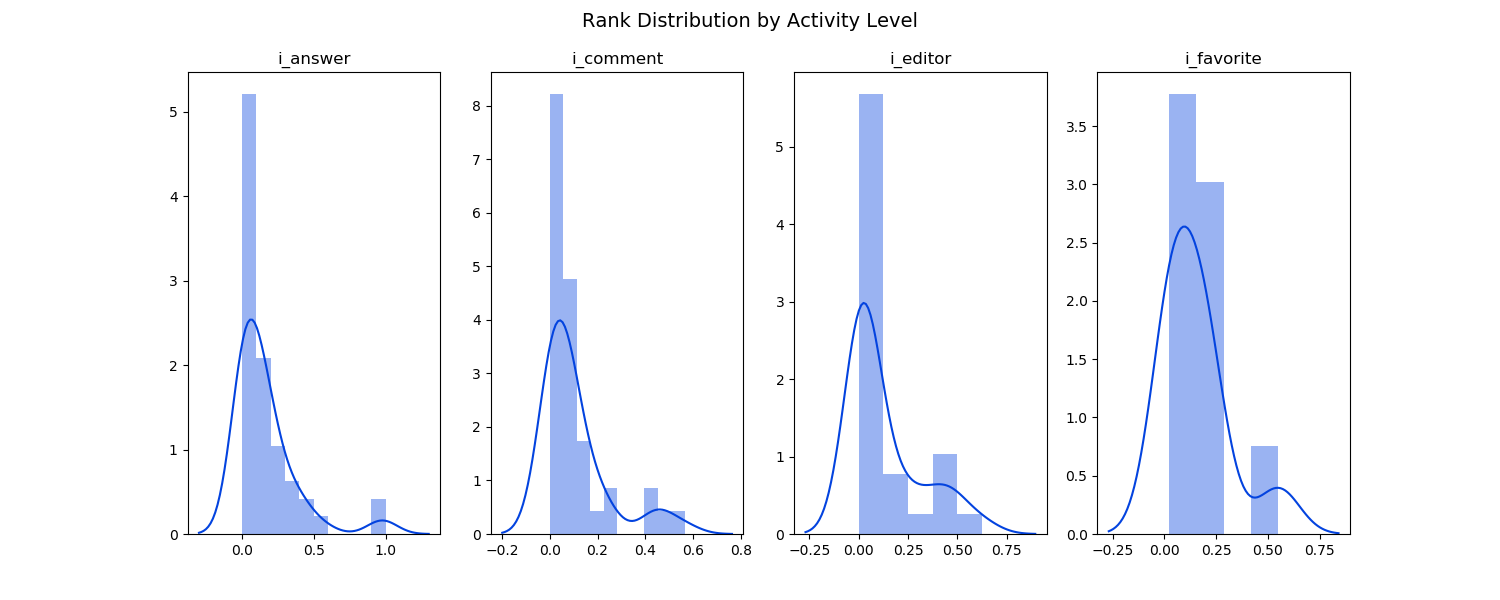
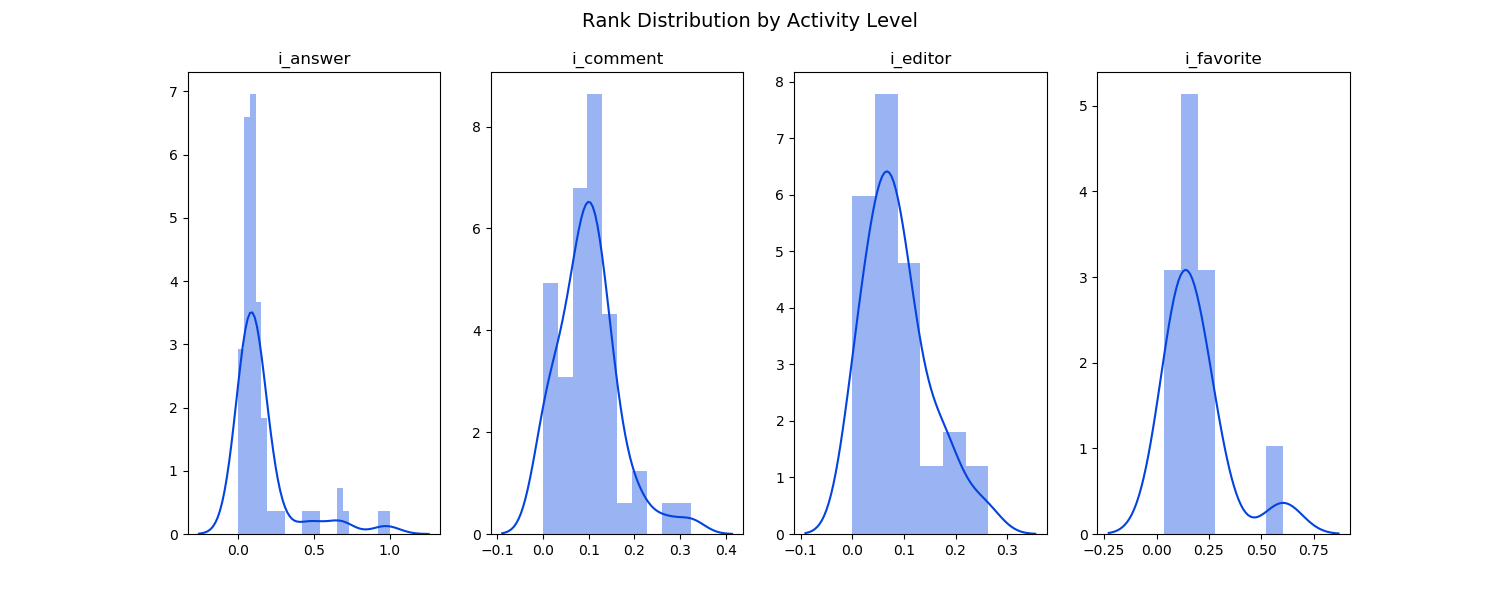
indicator variable now in. good news on the results.

diff --git a/source/engine/features.py b/source/engine/features.py
@@ -1,5 +1,6 @@
 import dill as pickle
 import sys
+import math
 
 # preprocessing in order for the pickle files to unpack
 # the modules must be included where they were packed
@@ -7,7 +8,7 @@ sys.path.append('../../source/data/features')
 BASE_PATH = '../../../160-Stackoverflow-Data/train_test/'
 
 
-class Feature:
+class Utilities:
     @staticmethod
     def load_p_file(p_file_path):
         try:
@@ -18,11 +19,11 @@ class Feature:
             raise
 
 
-class UserAvailability(Feature):
+class UserAvailability:
     pickle_path = BASE_PATH + 'engineered_features/user_availibility_network.p'
 
     def __init__(self):
-        self.UA_network = Feature.load_p_file(UserAvailability.pickle_path)
+        self.UA_network = Utilities.load_p_file(UserAvailability.pickle_path)
 
     def get_user_availability_probability(self, user_id, hour):
         try:
@@ -31,18 +32,18 @@ class UserAvailability(Feature):
             print(f'User {e} was unidentified in the user availability network.', e)
             raise
         try:
-            return self.UA_network[int(user_id)][str(hour)]
+            return self.UA_network[int(user_id)][hour]
         # if hour was not found, then there is no chance that the
-        # user could have answered the question
+        # user could have answered the question, so break the score
         except KeyError:
             return 0
 
 
-class UserExpertise(Feature):
+class UserExpertise:
     pickle_path = BASE_PATH + 'engineered_features/user_expertise_network.p'
 
     def __init__(self):
-        self.UE_network = Feature.load_p_file(UserExpertise.pickle_path)
+        self.UE_network = Utilities.load_p_file(UserExpertise.pickle_path)
 
     def get_user_sum_expertise(self, user_id, tags):
         return sum([self._get_user_expertise(user_id, tag) for tag in tags])
@@ -59,20 +60,21 @@ class UserExpertise(Feature):
                 # otherwise return the sum of the frequencies of posts per tag
                 a = user_tag_expertise[tag].get('n_answers', 0.0)
                 b = user_tag_expertise[tag].get('n_comments', 0.0)
-                c = user_tag_expertise[tag].get('n_questions', 0.0)
-                # note the comments are purposefully given less weight
-                return a + b/2 + c
+                # note: ignoring number of questions because it is not
+                #       accounted as a user activity.
+                # c = user_tag_expertise[tag].get('n_questions', 0.0)
+                return a + b
         except KeyError as e:
             print(f'user_id {user_id} was not found.', e)
             raise
 
 
-class BasicProfile(Feature):
+class BasicProfile:
     pickle_path = BASE_PATH + 'engineered_features/user_basic_profile_network.p'
     n_features = 4
 
     def __init__(self):
-        self.Users = Feature.load_p_file(BasicProfile.pickle_path)
+        self.Users = Utilities.load_p_file(BasicProfile.pickle_path)
 
     def get_all_measureable_features(self, user_id):
         return [self._get_user_reputation(user_id),
@@ -116,18 +118,30 @@ class BasicProfile(Feature):
             raise
 
 
-class TagNetwork(Feature):
+class TagNetwork:
     pickle_path = BASE_PATH + 'engineered_features/tag_network.p'
 
     def __init__(self):
-        self.TAG_Network = Feature.load_p_file(TagNetwork.pickle_path)
+        self.TAG_Network = Utilities.load_p_file(TagNetwork.pickle_path)
 
     def shortest_path(self, a, b):
         pass
 
 
+# post feature
 class Indicator:
-    pickle_path = BASE_PATH + 'engineered_features/indicator_network.p'
+    pickle_path = BASE_PATH + 'engineered_features/indicator_network_1000_q.p'
 
     def __init__(self):
-        self.I_Network = Feature.load_p_file(Indicator.pickle_path)
+        self.I_Network = Utilities.load_p_file(Indicator.pickle_path)
+        self.user_avail = UserAvailability()
+        self.user_expertise = UserExpertise()
+
+    def is_inactive(self, q_id, u_id):
+        return u_id in self.I_Network[q_id]
+
+    def in_unavailable(self, u_id, hour):
+        return self.user_avail.get_user_availability_probability(u_id, hour) == 0
+
+    def has_no_relative_expertise(self, u_id, tags):
+        return self.user_expertise.get_user_sum_expertise(u_id, tags) == 0

diff --git a/source/engine/engine.py b/source/engine/engine.py
@@ -124,6 +124,9 @@ class Engine:
     user_profile = BasicProfile()
     user_expertise = UserExpertise()
 
+    # loading post features
+    indicator = Indicator()
+
     # todo: ignore these for now, integrate them later once everything works
     # tag_network = TagNetwork()
 
@@ -156,7 +159,9 @@ class Engine:
         for index, row in bar(Engine.X.iterrows()):
             question_score_matrix = Engine._rank_question(row, copy(matrix_init), w)
             self.residuals.compute_and_store_residuals(question_score_matrix, index)
+            # store the user matrix results as part of another visualization
             self.recommender_user_matrix[index, :] = question_score_matrix[:, 0]
+
         t2 = time.time()
 
         logging.info(f'Ranking all questions computation finished in {(t2 - t1)/60} minutes.\n'
@@ -171,14 +176,17 @@ class Engine:
 
         # now transform to fix units (excluding users column, and the score column)
         scaler = MinMaxScaler()
-        M[:, 1:-1] = scaler.fit_transform(M[:, 1:-1])
+        M[:, 1: -1] = scaler.fit_transform(M[:, 1:-1])
 
-        # weight each feature
+        # weight each feature (except the user and score)
         M[:, 1: -1] = np.multiply(M[:, 1:-1], w)
 
         # compute the final score based off the features by summing
         # all the rows (excluding the user column and the score column)
         M[:, -1] = np.array([np.sum(M[i, 1:-1]) for i in range(M.shape[0])])
+
+        # post process the matrix, and reduce inactive users before sorting the scores
+        # M[:, -1] = Engine.__post_process_indicate(M, x_row)
 
         # by default sort will sort by the last column
         return Engine._sort_matrix_by_column(M, -1, ascending=False)
@@ -186,11 +194,21 @@ class Engine:
     @staticmethod
     def _compute_feature_row_for_user(user_id, x_row):
         user_avail = Engine.user_availability.get_user_availability_probability(user_id, x_row.CreationDate.hour)
-        user_expertise = Engine.user_expertise.get_user_sum_expertise(user_id, x_row['Tags'].split())
         user_basic_profile = Engine.user_profile.get_all_measureable_features(user_id)
+        user_expertise = Engine.user_expertise.get_user_sum_expertise(user_id, x_row['Tags'].split())
         return [user_avail] + user_basic_profile + [user_expertise]
 
     @staticmethod
     def _sort_matrix_by_column(M, i_column, ascending=True):
         multiplier = 1 if ascending else -1
         return M[np.argsort(multiplier*M[:, i_column])]
+
+    @staticmethod
+    def __post_process_indicate(M, x_row):
+        # key:
+        #   M[i, 0] -> user_id
+        #   M[i, -1] -> score
+        return np.array([0 if (Engine.indicator.is_inactive(x_row.Id, M[i, 0]) or
+                               Engine.indicator.in_unavailable(M[i, 0], x_row.CreationDate.hour) or
+                               Engine.indicator.has_no_relative_expertise(M[i, 0], x_row.Tags.split())) else M[i, -1]
+                         for i in range(M.shape[0])])

diff --git a/source/engine/test.py b/source/engine/test.py
@@ -114,10 +114,10 @@ Post Features and Residual Analysis:
 
 if __name__ == '__main__':
     set_up_log_files('run.log')
-    # t = Test(6)
+    t = Test(6)
     # t.basic_tests()
-    # t.plot_tests()
+    t.plot_tests()
 
-    t = TestWeightVector(6)
+    # t = TestWeightVector(6)
     # t.build_error_matrix_by_cartisian_weight((-500, 1000), 500) # 52 hours
-    t.build_error_matrix_by_cartisian_weight((-250, 1000), 750) # 9 hours
+    # t.build_error_matrix_by_cartisian_weight((-250, 1000), 750) # 9 hours

diff --git a/source/engine/visuals.py b/source/engine/visuals.py
@@ -105,7 +105,7 @@ class ResidualPlots:
         rank = np.arange(0, rank_matrix.shape[1])
         sd = np.std(rank_matrix, axis=0)
         sns.kdeplot(rank, sd, shade=True)
-        plt.title('Recommender System Variance by Rank')
+        plt.title('Recommender System Standard Deviation by Rank')
         plt.xlabel('User Rank')
         plt.ylabel('Standard Deviation')
         plt.savefig(save_path)
